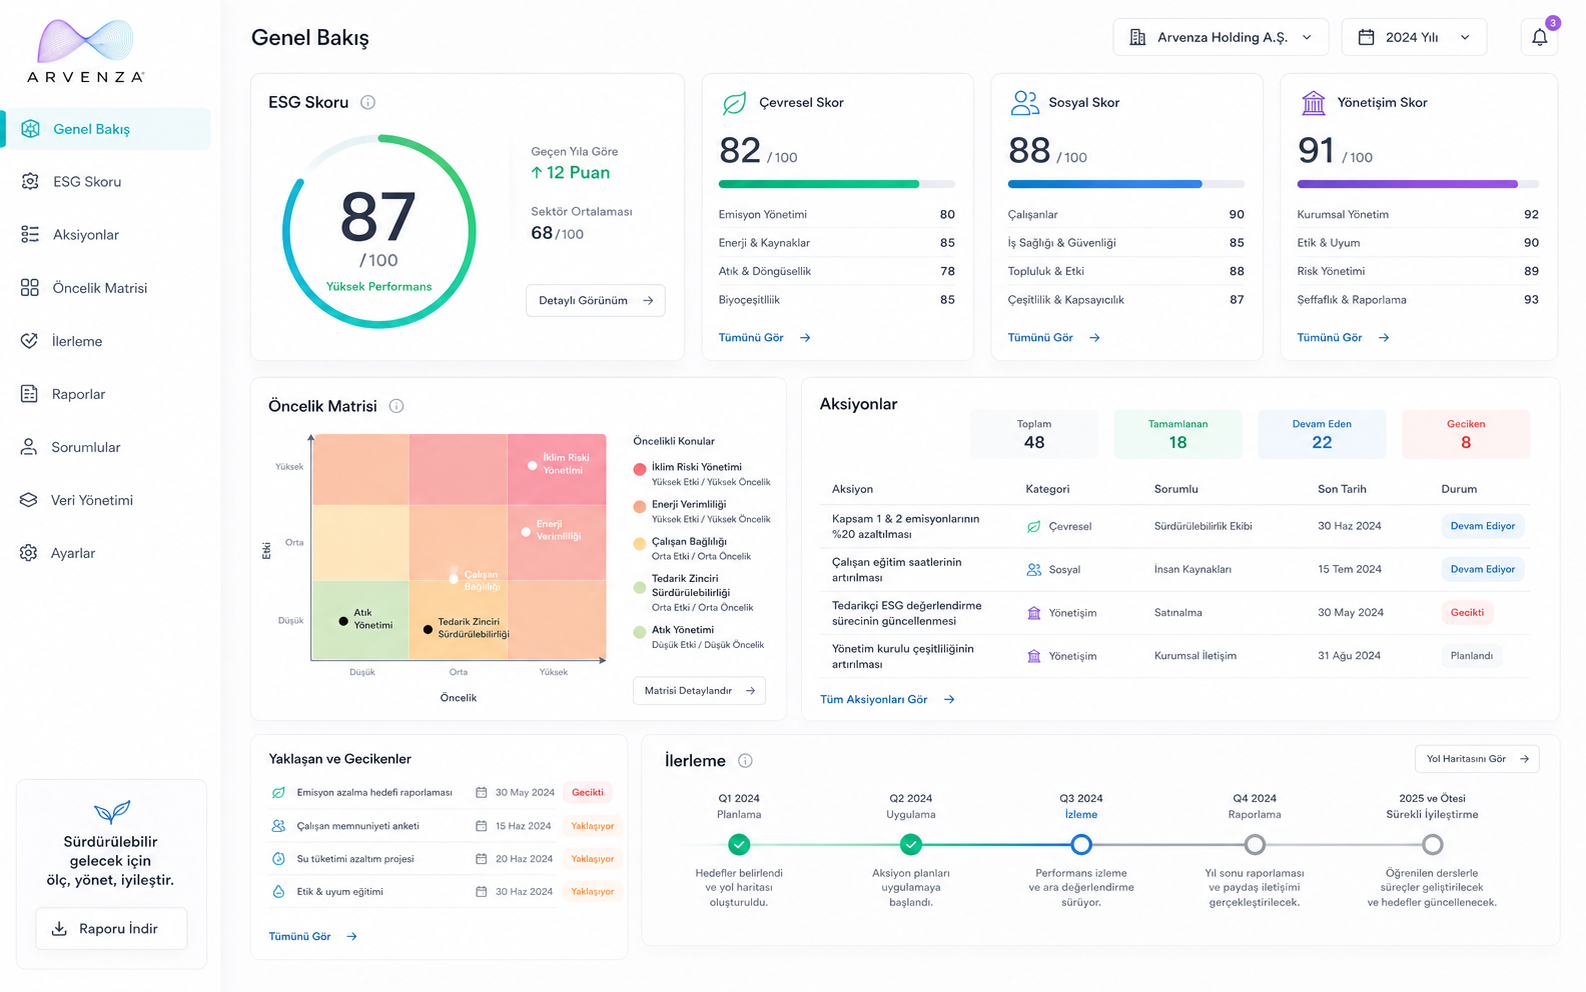
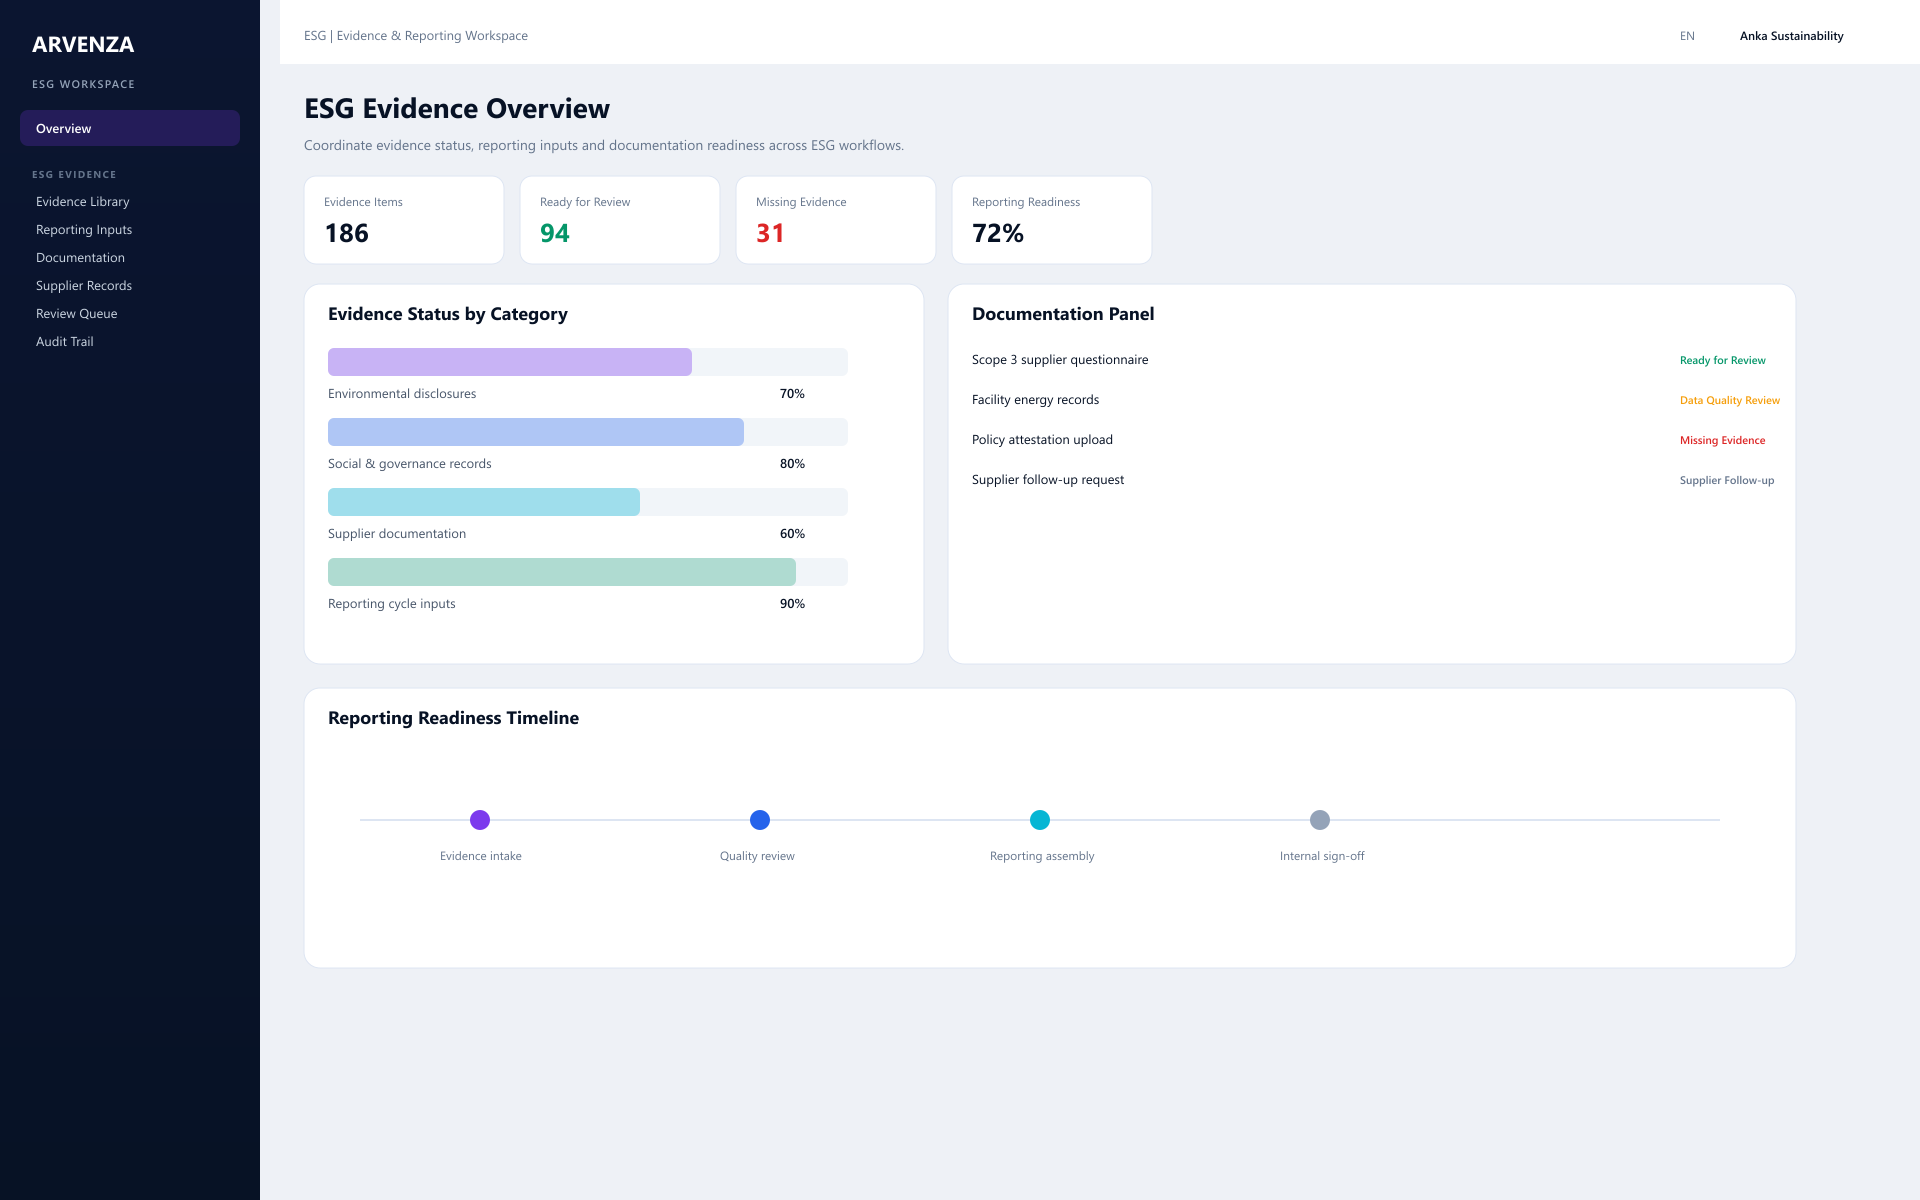
Fix final investor blockers and finalize launch

diff --git a/app/premium-system.css b/app/premium-system.css
@@ -1610,8 +1610,41 @@
     border-bottom: 1px solid rgba(124, 58, 237, 0.1);
   }
 
-  .resource-hero-chip {
-    border-color: rgba(124, 58, 237, 0.2);
+  .section-resources-hero .page-hero-bottom {
+    padding-bottom: 1rem;
+  }
+
+  @media (min-width: 1024px) {
+    .section-resources-hero .page-hero-bottom {
+      padding-bottom: 1.25rem;
+    }
+  }
+
+  .resources-section-library {
+    margin-top: -0.125rem;
+  }
+
+  .resources-section-library .page-section-y {
+    padding-top: 1.25rem;
+    padding-bottom: 2rem;
+  }
+
+  @media (min-width: 768px) {
+    .resources-section-library .page-section-y {
+      padding-top: 1.5rem;
+    }
+  }
+
+  @media (min-width: 1024px) {
+    .resources-section-library .page-section-y {
+      padding-top: 1.75rem;
+      padding-bottom: 2.5rem;
+    }
+  }
+
+  .section-resources-hero .section-wave-edge-compact {
+    height: 1.5rem;
+    opacity: 0.25;
   }
 
   .resource-library-head {

diff --git a/components/pages/demo-page.tsx b/components/pages/demo-page.tsx
@@ -50,18 +50,18 @@ export function DemoPage() {
         <PageContainer className="section-content min-w-0 page-hero-bottom">
           <div className="grid min-w-0 grid-cols-1 items-center gap-10 lg:grid-cols-[minmax(0,1fr)_minmax(0,1.05fr)] lg:gap-12 xl:gap-14">
             <div className="min-w-0 max-w-[580px]">
-              <FadeIn immediate>
+              <FadeIn staticReveal>
                 <p className="eyebrow-pill">{t("hero.eyebrow")}</p>
               </FadeIn>
-              <FadeIn immediate>
+              <FadeIn staticReveal>
                 <h1 id="demo-hero-heading" className="heading-hero-gradient mt-4 text-balance lg:mt-5">
                   {t("hero.title")}
                 </h1>
               </FadeIn>
-              <FadeIn immediate>
+              <FadeIn staticReveal>
                 <p className="body-lead-hero mt-4 lg:mt-5">{t("hero.description")}</p>
               </FadeIn>
-              <FadeIn immediate>
+              <FadeIn staticReveal>
                 <ul className="mt-5 flex flex-wrap gap-1.5" aria-label={t("hero.chipsAriaLabel")}>
                   {heroChipKeys.map((key) => (
                     <li key={key}>
@@ -73,7 +73,7 @@ export function DemoPage() {
                   ))}
                 </ul>
               </FadeIn>
-              <FadeIn immediate>
+              <FadeIn staticReveal>
                 <ul className="mt-6 space-y-2.5">
                   {heroBulletKeys.map((key) => (
                     <li key={key} className="flex items-start gap-2.5">
@@ -85,7 +85,7 @@ export function DemoPage() {
                   ))}
                 </ul>
               </FadeIn>
-              <FadeIn immediate>
+              <FadeIn staticReveal>
                 <div className="demo-hero-stat stat-capsule mt-7 max-w-full">
                   <span className="text-xs font-semibold uppercase tracking-[0.12em] text-[#7c3aed]">
                     {t("hero.statLabel")}
@@ -95,7 +95,7 @@ export function DemoPage() {
               </FadeIn>
             </div>
 
-            <FadeIn immediate direction="none" className="relative mx-auto w-full min-w-0 max-w-[540px] lg:mx-0 lg:max-w-none lg:justify-self-end">
+            <FadeIn staticReveal direction="none" className="relative mx-auto w-full min-w-0 max-w-[540px] lg:mx-0 lg:max-w-none lg:justify-self-end">
               <div className="demo-preview-stack relative min-w-0 overflow-hidden">
                 <div
                   className="pointer-events-none absolute -inset-6 rounded-[2rem] bg-[radial-gradient(circle,rgba(124,58,237,0.16),transparent_68%)] blur-2xl"
@@ -152,7 +152,7 @@ export function DemoPage() {
       <FullBleedSection ariaLabelledby="demo-form-heading" className="section-light demo-section-form">
         <OrbitWaveMotif variant="section" orbitAlign="right" />
         <PageContainer className="section-content min-w-0 page-section-y-tight">
-          <FadeIn>
+          <FadeIn staticReveal>
             <div className="demo-form-section-head">
               <h2 id="demo-form-heading" className="heading-section-compact">
                 {t("formSection.title")}
@@ -162,7 +162,7 @@ export function DemoPage() {
           </FadeIn>
 
           <div className="mt-6 grid min-w-0 grid-cols-1 gap-8 lg:grid-cols-[minmax(0,1.15fr)_minmax(0,0.85fr)] lg:gap-8 xl:gap-10">
-            <FadeIn>
+            <FadeIn staticReveal>
               <div className="demo-form-shell">
                 <ContactForm namespace="demo" variant="premium" />
               </div>
@@ -183,7 +183,7 @@ export function DemoPage() {
               </div>
             </FadeIn>
 
-            <FadeIn delay={0.08}>
+            <FadeIn staticReveal delay={0.08}>
               <aside className="demo-expectations-panel h-full">
                 <h3 className="text-lg font-semibold tracking-tight text-[#071225]">
                   {t("expectations.title")}
@@ -258,7 +258,7 @@ export function DemoPage() {
 
       <FullBleedSection ariaLabelledby="demo-coverage-heading" className="section-muted demo-section-coverage">
         <PageContainer className="section-content min-w-0 page-section-y-tight">
-          <FadeIn>
+          <FadeIn staticReveal>
             <div className="mx-auto max-w-2xl text-center">
               <h2 id="demo-coverage-heading" className="heading-section-compact">
                 {t("coverage.title")}
@@ -270,7 +270,7 @@ export function DemoPage() {
             {coverageKeys.map((key, index) => {
               const Icon = coverageIcons[index];
               return (
-                <FadeIn key={key} delay={index * 0.05}>
+                <FadeIn key={key} staticReveal delay={index * 0.05}>
                   <article className="demo-coverage-card">
                     <div className="demo-coverage-icon">
                       <Icon className="h-[18px] w-[18px] text-[#7c3aed]" aria-hidden="true" />
@@ -290,7 +290,7 @@ export function DemoPage() {
 
       <FullBleedSection ariaLabelledby="demo-audience-heading" className="section-light demo-section-audience">
         <PageContainer className="section-content min-w-0 page-section-y-tight">
-          <FadeIn>
+          <FadeIn staticReveal>
             <div className="demo-audience-band">
               <h2 id="demo-audience-heading" className="text-lg font-semibold tracking-tight text-[#071225] lg:text-xl">
                 {t("audience.title")}
@@ -315,7 +315,7 @@ export function DemoPage() {
       <FullBleedSection ariaLabelledby="demo-cta-heading" className="section-light demo-section-cta page-end-cap">
         <OrbitWaveMotif variant="cta" orbitAlign="center" />
         <PageContainer className="section-content min-w-0">
-          <FadeIn>
+          <FadeIn staticReveal>
             <div className="demo-cta-band premium-cta-band relative overflow-hidden rounded-[1.75rem] px-8 py-10 sm:px-12 sm:py-11 lg:px-14 lg:py-12">
               <div
                 className="pointer-events-none absolute inset-0 bg-[radial-gradient(ellipse_at_top_right,rgba(255,255,255,0.2),transparent_55%)]"

diff --git a/components/sections/hero-section.tsx b/components/sections/hero-section.tsx
@@ -28,20 +28,20 @@ export function HeroSection() {
       <PageContainer className="section-content min-w-0 page-hero-bottom page-hero-top">
         <div className="grid w-full min-w-0 grid-cols-1 items-center gap-10 lg:grid-cols-[minmax(0,44%)_minmax(0,56%)] lg:gap-8 xl:gap-10">
           <div className="min-w-0 lg:max-w-[540px]">
-            <FadeIn immediate>
+            <FadeIn staticReveal>
               <p className="eyebrow-pill">{t("eyebrow")}</p>
               <p className="mt-3 text-sm font-semibold tracking-wide text-[#4338ca]">{t("platformTagline")}</p>
             </FadeIn>
-            <FadeIn immediate>
+            <FadeIn staticReveal>
               <h1 id="hero-heading" className="heading-hero-gradient mt-4 text-balance lg:mt-5">
                 {t("title")}
               </h1>
             </FadeIn>
-            <FadeIn immediate>
+            <FadeIn staticReveal>
               <p className="body-lead-hero mt-4 lg:mt-5">{t("description")}</p>
             </FadeIn>
 
-            <FadeIn immediate>
+            <FadeIn staticReveal>
               <div className="hero-cta-panel mt-6">
                 <div className="flex flex-col gap-2.5 sm:flex-row sm:flex-wrap">
                   <Link
@@ -63,7 +63,7 @@ export function HeroSection() {
               </div>
             </FadeIn>
 
-            <FadeIn immediate>
+            <FadeIn staticReveal>
               <ul className="hero-signal-grid mt-6" aria-label={t("signalsAriaLabel")}>
                 {signalKeys.map((key, i) => {
                   const Icon = signalIcons[i];
@@ -88,7 +88,7 @@ export function HeroSection() {
               </ul>
             </FadeIn>
 
-            <FadeIn immediate>
+            <FadeIn staticReveal>
               <ul className="mt-5 flex flex-wrap gap-1.5" aria-label={t("trustAriaLabel")}>
                 {trustKeys.map((key) => (
                   <li key={key}>
@@ -102,7 +102,7 @@ export function HeroSection() {
             </FadeIn>
           </div>
 
-          <FadeIn immediate direction="none" className="min-w-0 w-full lg:justify-self-end">
+          <FadeIn staticReveal direction="none" className="min-w-0 w-full lg:justify-self-end">
             <HeroProductStage />
           </FadeIn>
         </div>

diff --git a/app/globals.css b/app/globals.css
@@ -168,9 +168,9 @@
     font-weight: 700;
     line-height: 1.08;
     letter-spacing: -0.03em;
-    hyphens: auto;
+    hyphens: none;
     overflow-wrap: break-word;
-    word-break: break-word;
+    word-break: normal;
     min-width: 0;
     max-width: 100%;
     background: linear-gradient(
@@ -186,13 +186,7 @@
   }
 
   .company-hero-heading {
-    max-width: 18ch;
-  }
-
-  @media (min-width: 1024px) {
-    .company-hero-heading {
-      max-width: 22ch;
-    }
+    max-width: none;
   }
 
   .text-accent {

diff --git a/components/pages/company-page.tsx b/components/pages/company-page.tsx
@@ -96,7 +96,7 @@ export function CompanyPage() {
       <FullBleedSection className="section-light company-section-narrative page-end-cap">
         <OrbitWaveMotif variant="section" orbitAlign="left" />
         <PageContainer className="section-content min-w-0 page-section-y">
-          <FadeIn>
+          <FadeIn staticReveal>
             <article className="company-why-now-panel">
               <div className="company-why-now-panel-glow" aria-hidden="true" />
               <div className="relative">
@@ -120,7 +120,7 @@ export function CompanyPage() {
             </article>
           </FadeIn>
 
-          <FadeIn delay={0.04}>
+          <FadeIn staticReveal delay={0.04}>
             <article className="corporate-section-card corporate-section-card-featured mt-5">
               <div className="corporate-section-icon">
                 <Building2 className="h-[18px] w-[18px] text-[#7c3aed]" aria-hidden="true" />
@@ -146,7 +146,7 @@ export function CompanyPage() {
               const Icon = SECTION_ICONS[i];
               const featured = key === "whatIs";
               return (
-                <FadeIn key={key} delay={0.06 + i * 0.03}>
+                <FadeIn key={key} staticReveal delay={0.06 + i * 0.03}>
                   <article
                     className={cn(
                       "corporate-section-card h-full",
@@ -168,7 +168,7 @@ export function CompanyPage() {
             })}
           </div>
 
-          <FadeIn delay={0.12}>
+          <FadeIn staticReveal delay={0.12}>
             <div className="company-trust-strip page-stack-gap" aria-label={t("trust.ariaLabel")}>
               <p className="company-trust-strip-title">{t("trust.title")}</p>
               <ul className="mt-4 flex flex-wrap gap-2">

diff --git a/components/ui/fade-in.tsx b/components/ui/fade-in.tsx
@@ -50,15 +50,15 @@ export function FadeIn({
   return (
     <motion.div
       initial={{
-        opacity: 0.92,
-        y: direction === "up" ? 16 : 0,
+        opacity: 1,
+        y: direction === "up" ? 6 : 0,
       }}
       whileInView={{
         opacity: 1,
         y: 0,
       }}
-      viewport={{ once: true, margin: "0px 0px -8% 0px", amount: 0.03 }}
-      transition={{ duration: 0.35, delay, ease: [0.22, 1, 0.36, 1] }}
+      viewport={{ once: true, margin: "0px 0px 200px 0px", amount: 0 }}
+      transition={{ duration: 0.4, delay, ease: [0.22, 1, 0.36, 1] }}
       className={cn("fade-in-safe", className)}
     >
       {children}

diff --git a/lib/platform-modules.ts b/lib/platform-modules.ts
@@ -60,12 +60,18 @@ export const PLATFORM_MODULE_SCREENSHOTS: Record<PlatformModuleKey, string> = {
 /** EUDR Turkish UI — English mock for EN/NL locales */
 export const EUDR_SCREENSHOT_EN = "/assets/screenshots/eudr/dashboard-en.png";
 
+/** Supplier Evidence Turkish UI — English mock for EN/NL locales */
+export const SUPPLIER_SCREENSHOT_EN = "/assets/screenshots/supplier-evidence/dashboard-en.png";
+
 export function resolveModuleScreenshotPath(
   moduleKey: PlatformModuleKey,
   locale?: string
 ): string {
   if (moduleKey === "eudr" && locale && locale !== "tr") {
     return EUDR_SCREENSHOT_EN;
+  }
+  if (moduleKey === "supplierEvidence" && locale && locale !== "tr") {
+    return SUPPLIER_SCREENSHOT_EN;
   }
   return PLATFORM_MODULE_SCREENSHOTS[moduleKey];
 }

diff --git a/components/pages/resources-page-content.tsx b/components/pages/resources-page-content.tsx
@@ -154,7 +154,7 @@ export function ResourcesPageContent() {
             </div>
           </FadeIn>
         </PageContainer>
-        <SectionWaveEdge className="opacity-45" />
+        <SectionWaveEdge className="section-wave-edge-compact opacity-45" />
       </FullBleedSection>
 
       <FullBleedSection className="section-light resources-section-library">

diff --git a/components/sections/journey-section.tsx b/components/sections/journey-section.tsx
@@ -29,7 +29,7 @@ export function JourneySection() {
     >
       <OrbitWaveMotif variant="muted" orbitAlign="center" />
       <PageContainer className="section-content">
-        <FadeIn immediate>
+        <FadeIn staticReveal>
           <SectionHeading
             id="journey-heading"
             eyebrow={t("eyebrow")}

diff --git a/components/sections/trust-block-section.tsx b/components/sections/trust-block-section.tsx
@@ -18,7 +18,7 @@ export function TrustBlockSection() {
     <FullBleedSection id="trust" ariaLabelledby="trust-heading" className="section-muted home-section-compact">
       <OrbitWaveMotif variant="muted" orbitAlign="center" />
       <PageContainer className="section-content">
-        <FadeIn immediate>
+        <FadeIn staticReveal>
           <SectionHeading
             id="trust-heading"
             eyebrow={t("eyebrow")}